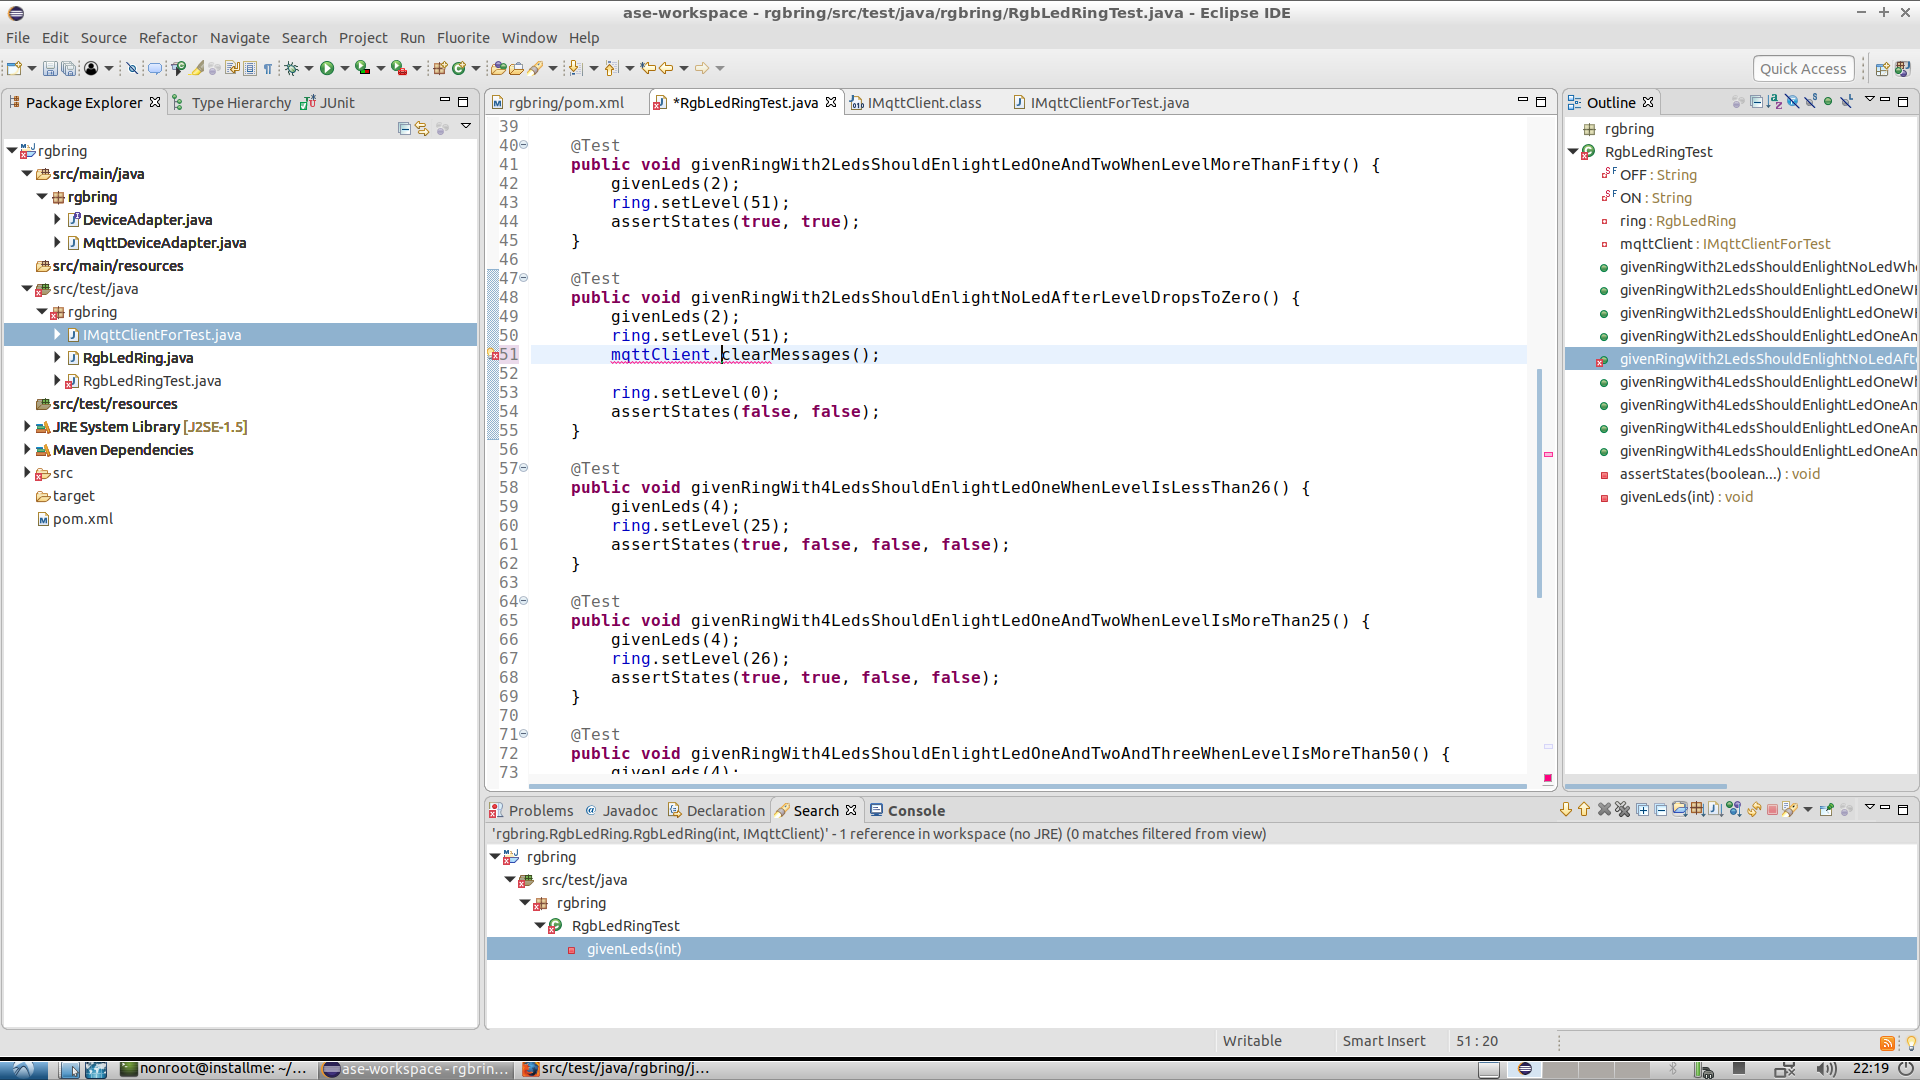
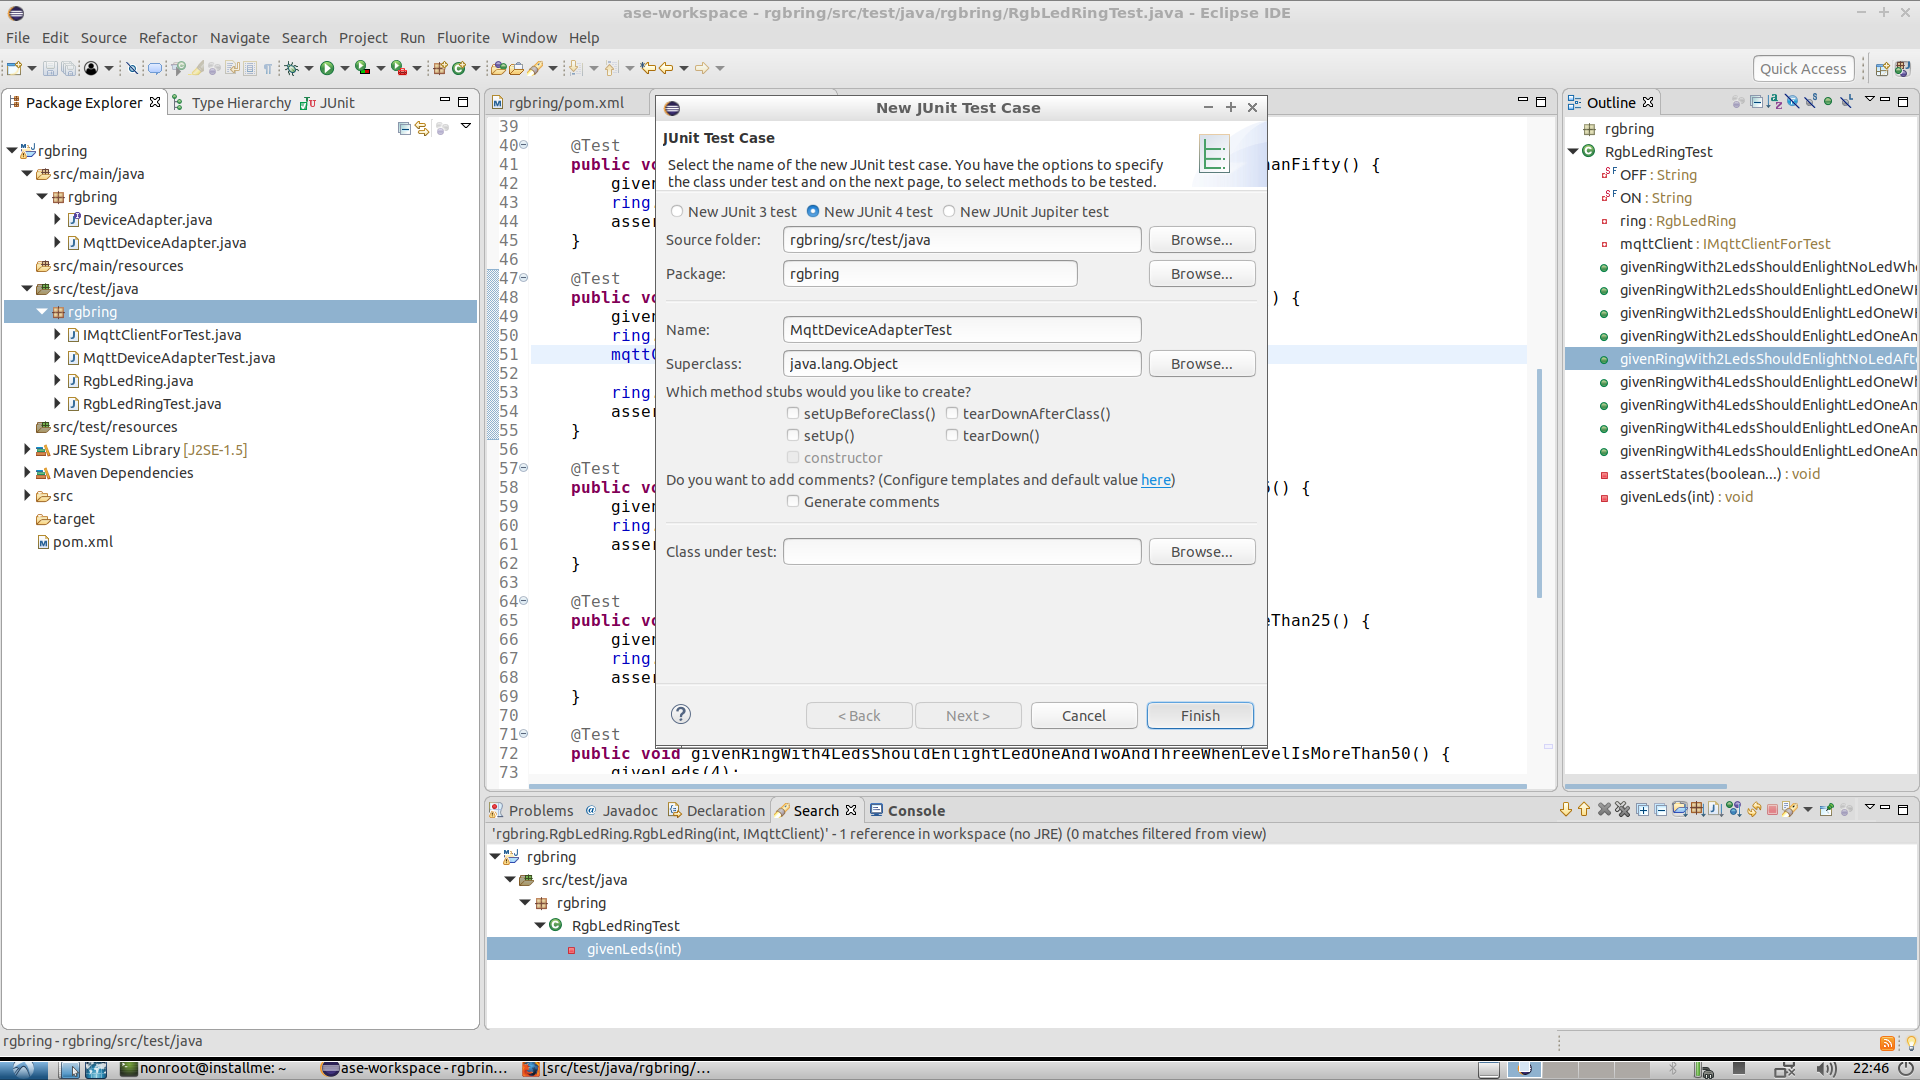
autocommit on change

diff --git a/src/test/java/rgbring/MqttDeviceAdapterTest.java b/src/test/java/rgbring/MqttDeviceAdapterTest.java
@@ -1,0 +1,14 @@
+package rgbring;
+
+import static org.junit.Assert.*;
+
+import org.junit.Test;
+
+public class MqttDeviceAdapterTest {
+
+	@Test
+	public void test() {
+		fail("Not yet implemented");
+	}
+
+}
